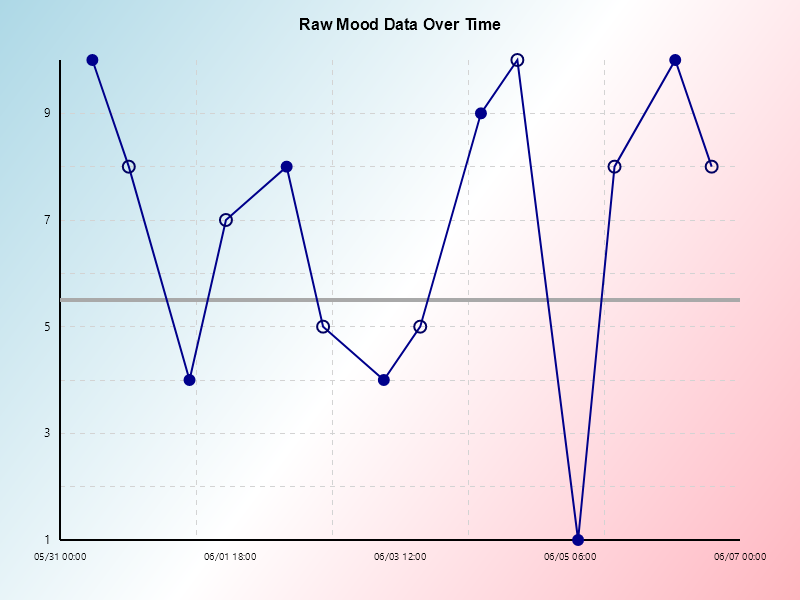
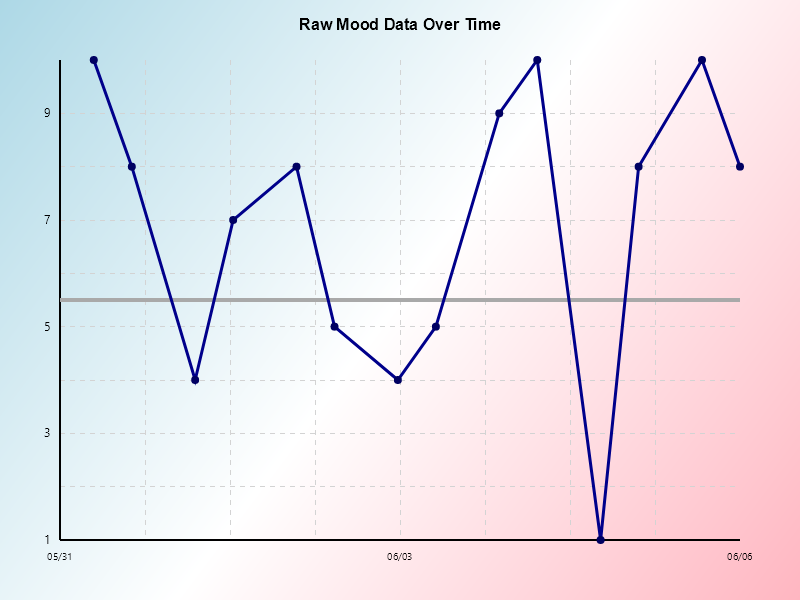
^r - update GenerateRawDataGraph_WithGradientBackground test to use simpleLineGraphService for dependency injection

diff --git a/WorkMood.MauiApp.Tests/Services/LineGraphServiceBackgroundTests.cs b/WorkMood.MauiApp.Tests/Services/LineGraphServiceBackgroundTests.cs
@@ -258,8 +258,8 @@ public class LineGraphServiceBackgroundTests
         var backgroundPath = Path.Combine(_testImagesPath, "gradient_background.png");
 
         // Act
-        var imageBytes = await _lineGraphService.GenerateRawDataGraphAsync(
-            MoodDataTestHelper.ConvertToRawMoodDataPoints(data), 
+        var imageBytes = await _simpleLineGraphService.GenerateRawGraphAsync(
+            data,
             dateRange, 
             showDataPoints: true, 
             showAxesAndGrid: true, 
